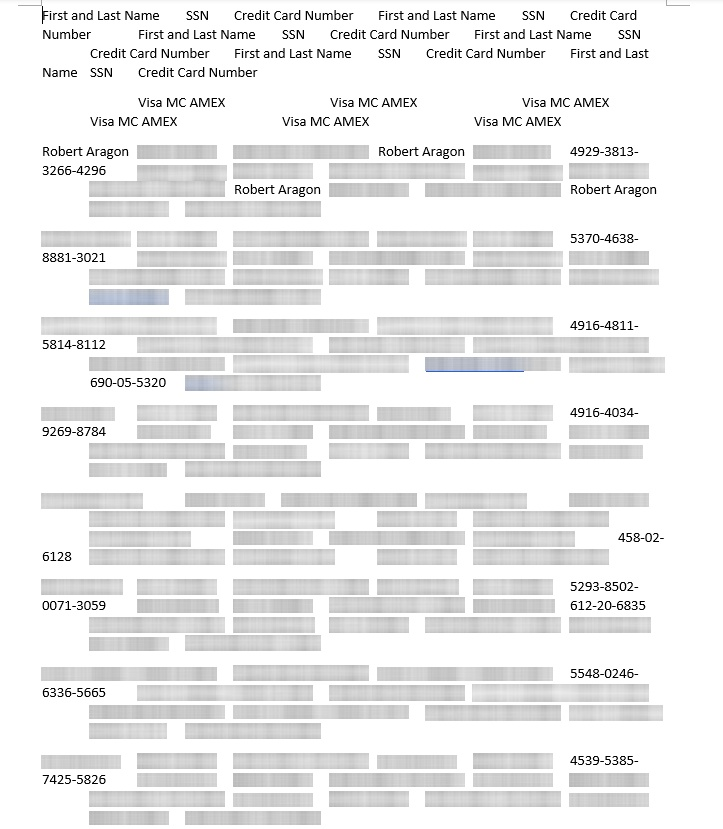
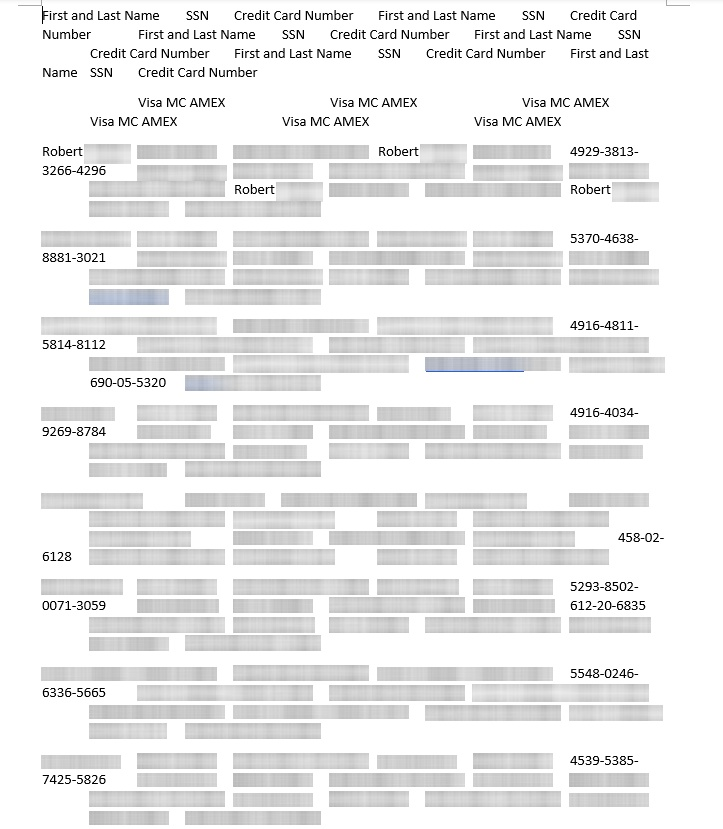
Added extra recognizers to analyzer

diff --git a/pii_utils.py b/pii_utils.py
@@ -12,10 +12,21 @@ cc_recognizer = PatternRecognizer(supported_entity="CREDIT_CARD_NUMBER", pattern
 analyzer.registry.add_recognizer(cc_recognizer)
 
 def analyze_pii(text):
-    return analyzer.analyze(text=text, 
-                            entities=["PERSON", 
-                            "PHONE_NUMBER", 
-                            "CREDIT_CARD_NUMBER", 
-                            "EMAIL_ADDRESS",
-                            "US_SSN"], 
-                            language="en")
+    return analyzer.analyze(
+        text=text,
+        entities=[
+            #"PERSON",
+            "PHONE_NUMBER",
+            "EMAIL_ADDRESS",
+            "US_SSN",
+            "CREDIT_CARD_NUMBER",
+            "NRP",
+            "LOCATION",
+            "IP_ADDRESS",
+            "IBAN_CODE",
+            "US_DRIVER_LICENSE",
+            "US_PASSPORT"
+        ],
+        language="en"
+    )
+
